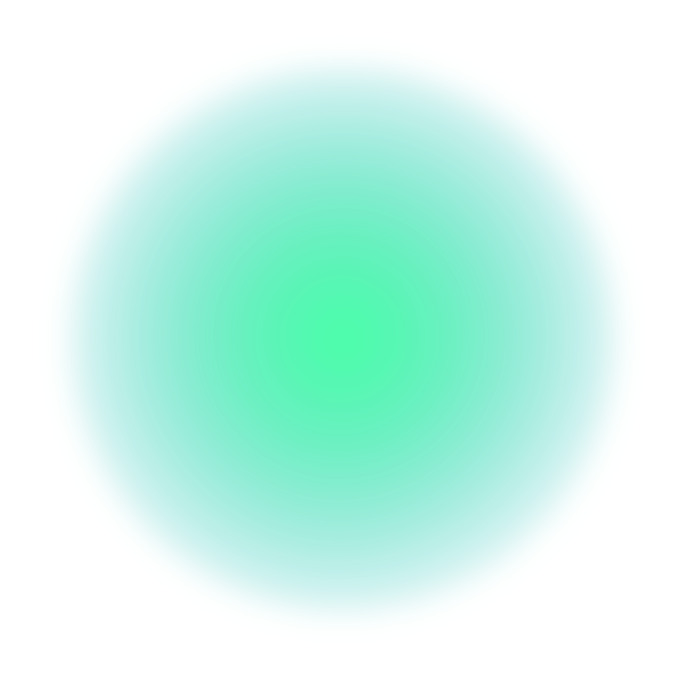
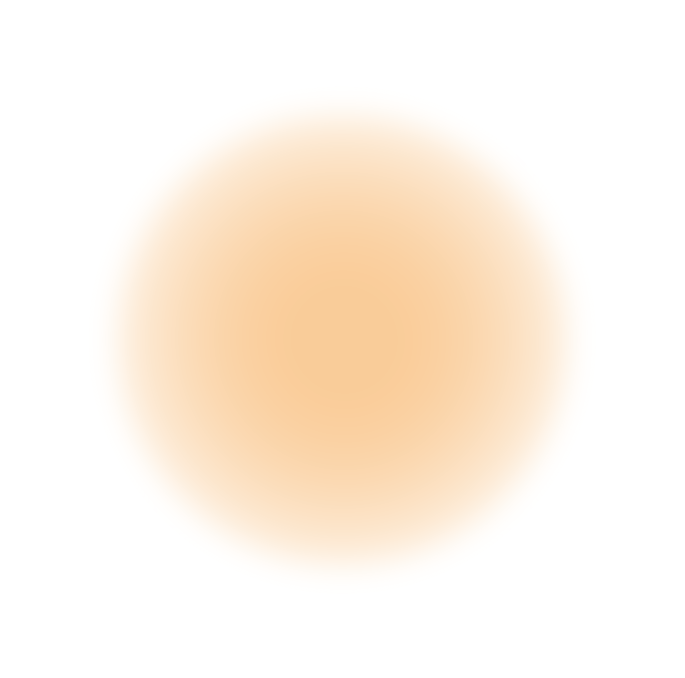
change about page

diff --git a/index.html b/index.html
@@ -1,152 +1,188 @@
 <!DOCTYPE html>
 <html lang="en">
+  <head>
+    <meta charset="UTF-8" />
+    <meta name="viewport" content="width=device-width, initial-scale=1.0" />
+    <title>Tracing Ties</title>
+    <link
+      href="https://fonts.googleapis.com/css2?family=Work+Sans:wght@300;400&display=swap"
+      rel="stylesheet"
+    />
+    <link rel="stylesheet" href="dist/main.css" />
+  </head>
 
-<head>
-  <meta charset="UTF-8" />
-  <meta name="viewport" content="width=device-width, initial-scale=1.0" />
-  <title>Tracing Ties</title>
-  <link href="https://fonts.googleapis.com/css2?family=Work+Sans:wght@300;400&display=swap" rel="stylesheet" />
-  <link rel="stylesheet" href="dist/main.css" />
-</head>
-
-<body>
-  <svg style="width: 0; height: 0; position: absolute;" aria-hidden="true" focusable="false" version="1.1"
-    xmlns="http://www.w3.org/2000/svg">
-    <filter id="blur">
-      <feGaussianBlur stdDeviation="3" />
-    </filter>
-  </svg>
-  <svg style="width: 0; height: 0; position: absolute;" aria-hidden="true" focusable="false">
-    <linearGradient id="my-uncool-gradient" x2="1" y2="1">
-      <stop offset="0%" stop-color="#000000" />
-      <stop offset="100%" stop-color="#000000" />
-    </linearGradient>
-    <linearGradient id="my-cool-gradient" x2="1" y2="1">
-      <stop offset="0%" stop-color="#00FF85" />
-      <stop offset="100%" stop-color="#2DBFBF" />
-    </linearGradient>
-  </svg>
-  <div class="scale-container">
-    Scale:
-    <p id="scale">20%</p>
-  </div>
-  <div class="pan-container">
-    <div id="floating-elements"></div>
-    <div id="active-element"></div>
-  </div>
-  <div class="filters">
-    <button class="filter" id="octagram">
-      <svg xmlns="http://www.w3.org/2000/svg" viewBox="0 0 71 69">
-        <g id="Layer_2" data-name="Layer 2">
-          <g id="Layer_1-2" data-name="Layer 1">
-            <polygon points="18 0 18 17 32 31 33 31 33 8 27 0 18 0" />
-            <polygon points="53 17 53 0 44 0 38 8 38 31 39 31 53 17" />
-            <polygon points="18 52 18 69 27 69 33 61 33 38 32 38 18 52" />
-            <polygon points="38 38 38 61 44 69 53 69 53 52 39 38 38 38" />
-            <polygon points="6 32 0.06 22.11 0 20 13 20 24.97 31.46 25 32 6 32" />
-            <polygon points="65 32 70.94 22.11 71 20 58 20 46.03 31.46 46 32 65 32" />
-            <polygon points="6 37 0.06 46.89 0 49 13 49 24.97 37.54 25 37 6 37" />
-            <polygon points="65 37 70.94 46.89 71 49 58 49 46.03 37.54 46 37 65 37" />
-          </g>
-        </g>
-      </svg>
-    </button>
-    <button class="filter" id="doublecross">
-      <svg xmlns="http://www.w3.org/2000/svg" viewBox="0 0 72 72">
-        <g id="Layer_2" data-name="Layer 2">
-          <g id="Layer_1-2" data-name="Layer 1">
-            <polygon
-              points="62.58 33 65.88 30.34 62.12 25.66 53.02 33 43.24 33 63.58 12.66 59.34 8.42 39 28.76 39 18.98 46.34 9.88 41.66 6.12 39 9.42 39 0 33 0 33 9.42 30.34 6.12 25.66 9.88 33 18.98 33 28.76 12.66 8.42 8.42 12.66 28.76 33 18.05 33 8.87 25.66 5.13 30.34 8.45 33 0 33 0 39 8.45 39 5.13 41.66 8.87 46.34 18.05 39 28.76 39 8.42 59.34 12.66 63.58 33 43.24 33 53.95 25.66 63.13 30.34 66.87 33 63.55 33 72 39 72 39 63.55 41.66 66.87 46.34 63.13 39 53.95 39 43.24 59.34 63.58 63.58 59.34 43.24 39 53.02 39 62.12 46.34 65.88 41.66 62.58 39 72 39 72 33 62.58 33" />
-          </g>
-        </g>
-      </svg>
-    </button>
-    <button class="filter" id="rhomb">
-      <svg xmlns="http://www.w3.org/2000/svg" viewBox="0 0 72.63 72.24">
-        <g id="Layer_2" data-name="Layer 2">
-          <g id="Layer_1-2" data-name="Layer 1">
-            <polygon points="25.24 35.64 35.41 45.98 46.08 35.91 36.13 25.36 25.24 35.64" />
-            <path
-              d="M72.63,28.07l-4.14-4.33-8.86,8.45-7.41-7.4,9.14-8.44-4.07-4.41L48,20.54l-7.11-7.11,9.3-8.88L46,.21l-9.4,9L27.44,0,23.19,4.24l9.09,9.09-7.42,7.09L15.94,11.5l-4.25,4.24,8.83,8.83L13.1,31.66,4.44,23,.19,27.24,8.76,35.8,0,44.17l4.14,4.34L13,40.05l7.42,7.42-9.15,8.42,4.07,4.42,9.33-8.59,7.09,7.09-9.29,8.88L26.61,72l9.4-9,9.18,9.19L49.44,68l-9.09-9.09,7.42-7.09,8.92,8.92,4.25-4.24-8.83-8.83,7.42-7.09,8.66,8.66L72.44,45l-8.57-8.56ZM35.27,54.44,16.82,35.7,36.27,16.78l18.4,19.27Z" />
-          </g>
-        </g>
-      </svg>
-    </button>
-  </div>
-  <button data-name="about">About</button>
-  <div id="about">
-    <h1>Tracing Ties</h1>
-    <p>
-      This project is a three-part collection of crafted objects that have the
-      same type of ornament in common. These are three of the more
-      widespread symbols in Estonian traditional handicraft.
-    </p>
-    <p class="small">
-      These are often called “national symbols” and used as decorations for
-      souvenirs and on package design for local produce.
-    </p>
-    <div class="symbols">
-      <div class="large-filters">
-        <button id="large-octagram" class="large-filter">
-          <svg xmlns="http://www.w3.org/2000/svg" viewBox="0 0 71 69">
-            <g id="Layer_2" data-name="Layer 2">
-              <g id="Layer_1-2" data-name="Layer 1">
-                <polygon points="18 0 18 17 32 31 33 31 33 8 27 0 18 0" />
-                <polygon points="53 17 53 0 44 0 38 8 38 31 39 31 53 17" />
-                <polygon points="18 52 18 69 27 69 33 61 33 38 32 38 18 52" />
-                <polygon points="38 38 38 61 44 69 53 69 53 52 39 38 38 38" />
-                <polygon points="6 32 0.06 22.11 0 20 13 20 24.97 31.46 25 32 6 32" />
-                <polygon points="65 32 70.94 22.11 71 20 58 20 46.03 31.46 46 32 65 32" />
-                <polygon points="6 37 0.06 46.89 0 49 13 49 24.97 37.54 25 37 6 37" />
-                <polygon points="65 37 70.94 46.89 71 49 58 49 46.03 37.54 46 37 65 37" />
-              </g>
-            </g>
-          </svg>
-        </button>
-        <button id="large-doublecross" class="large-filter">
-          <svg xmlns="http://www.w3.org/2000/svg" viewBox="0 0 72 72">
-            <g id="Layer_2" data-name="Layer 2">
-              <g id="Layer_1-2" data-name="Layer 1">
-                <polygon
-                  points="62.58 33 65.88 30.34 62.12 25.66 53.02 33 43.24 33 63.58 12.66 59.34 8.42 39 28.76 39 18.98 46.34 9.88 41.66 6.12 39 9.42 39 0 33 0 33 9.42 30.34 6.12 25.66 9.88 33 18.98 33 28.76 12.66 8.42 8.42 12.66 28.76 33 18.05 33 8.87 25.66 5.13 30.34 8.45 33 0 33 0 39 8.45 39 5.13 41.66 8.87 46.34 18.05 39 28.76 39 8.42 59.34 12.66 63.58 33 43.24 33 53.95 25.66 63.13 30.34 66.87 33 63.55 33 72 39 72 39 63.55 41.66 66.87 46.34 63.13 39 53.95 39 43.24 59.34 63.58 63.58 59.34 43.24 39 53.02 39 62.12 46.34 65.88 41.66 62.58 39 72 39 72 33 62.58 33" />
-              </g>
-            </g>
-          </svg>
-        </button>
-        <button id="large-rhomb" class="large-filter">
-          <svg xmlns="http://www.w3.org/2000/svg" viewBox="0 0 72.63 72.24">
-            <g id="Layer_2" data-name="Layer 2">
-              <g id="Layer_1-2" data-name="Layer 1">
-                <polygon points="25.24 35.64 35.41 45.98 46.08 35.91 36.13 25.36 25.24 35.64" />
-                <path
-                  d="M72.63,28.07l-4.14-4.33-8.86,8.45-7.41-7.4,9.14-8.44-4.07-4.41L48,20.54l-7.11-7.11,9.3-8.88L46,.21l-9.4,9L27.44,0,23.19,4.24l9.09,9.09-7.42,7.09L15.94,11.5l-4.25,4.24,8.83,8.83L13.1,31.66,4.44,23,.19,27.24,8.76,35.8,0,44.17l4.14,4.34L13,40.05l7.42,7.42-9.15,8.42,4.07,4.42,9.33-8.59,7.09,7.09-9.29,8.88L26.61,72l9.4-9,9.18,9.19L49.44,68l-9.09-9.09,7.42-7.09,8.92,8.92,4.25-4.24-8.83-8.83,7.42-7.09,8.66,8.66L72.44,45l-8.57-8.56ZM35.27,54.44,16.82,35.7,36.27,16.78l18.4,19.27Z" />
-              </g>
-            </g>
-          </svg>
-        </button>
-      </div>
+  <body>
+    <svg
+      style="width: 0; height: 0; position: absolute;"
+      aria-hidden="true"
+      focusable="false"
+      version="1.1"
+      xmlns="http://www.w3.org/2000/svg"
+    >
+      <filter id="blur">
+        <feGaussianBlur stdDeviation="3" />
+      </filter>
+    </svg>
+    <svg
+      style="width: 0; height: 0; position: absolute;"
+      aria-hidden="true"
+      focusable="false"
+    >
+      <linearGradient id="my-uncool-gradient" x2="1" y2="1">
+        <stop offset="0%" stop-color="#000000" />
+        <stop offset="100%" stop-color="#000000" />
+      </linearGradient>
+      <linearGradient id="my-cool-gradient" x2="1" y2="1">
+        <stop offset="0%" stop-color="#00FF85" />
+        <stop offset="100%" stop-color="#2DBFBF" />
+      </linearGradient>
+    </svg>
+    <div class="scale-container">
+      Scale:
+      <p id="scale">20%</p>
     </div>
-    <p>
-      This collection highlights the fact that these are largely universal
-      ornaments found on traditional handicraft around the world. Instead of
-      setting cultures apart, these symbols connect different people from different times through a universal visual
-      language.
-    </p>
-    <p>
-      These ties cannot be proven and might as well be accidental. Nevertheless, this project takes the
-      liberty to let go of facts for a moment and let the viewer speculate on the meaning of these similarities.
-    </p>
-    <p class="small">
-      Author: Anneli Kripsaar
-      <br />
-      Supervisor: Sean Yendrys
-      <br />
-      Thank you: Estonian National Museum
-    </p>
-  </div>
-  <div id="info"></div>
-  <div id="long-info"></div>
-</body>
-<script src="dist/main.js"></script>
-
+    <div class="pan-container">
+      <div id="floating-elements"></div>
+      <div id="active-element"></div>
+    </div>
+    <div class="filters">
+      <button class="filter" id="octagram">
+        <svg xmlns="http://www.w3.org/2000/svg" viewBox="0 0 71 69">
+          <g id="Layer_2" data-name="Layer 2">
+            <g id="Layer_1-2" data-name="Layer 1">
+              <polygon points="18 0 18 17 32 31 33 31 33 8 27 0 18 0" />
+              <polygon points="53 17 53 0 44 0 38 8 38 31 39 31 53 17" />
+              <polygon points="18 52 18 69 27 69 33 61 33 38 32 38 18 52" />
+              <polygon points="38 38 38 61 44 69 53 69 53 52 39 38 38 38" />
+              <polygon
+                points="6 32 0.06 22.11 0 20 13 20 24.97 31.46 25 32 6 32"
+              />
+              <polygon
+                points="65 32 70.94 22.11 71 20 58 20 46.03 31.46 46 32 65 32"
+              />
+              <polygon
+                points="6 37 0.06 46.89 0 49 13 49 24.97 37.54 25 37 6 37"
+              />
+              <polygon
+                points="65 37 70.94 46.89 71 49 58 49 46.03 37.54 46 37 65 37"
+              />
+            </g>
+          </g>
+        </svg>
+      </button>
+      <button class="filter" id="doublecross">
+        <svg xmlns="http://www.w3.org/2000/svg" viewBox="0 0 72 72">
+          <g id="Layer_2" data-name="Layer 2">
+            <g id="Layer_1-2" data-name="Layer 1">
+              <polygon
+                points="62.58 33 65.88 30.34 62.12 25.66 53.02 33 43.24 33 63.58 12.66 59.34 8.42 39 28.76 39 18.98 46.34 9.88 41.66 6.12 39 9.42 39 0 33 0 33 9.42 30.34 6.12 25.66 9.88 33 18.98 33 28.76 12.66 8.42 8.42 12.66 28.76 33 18.05 33 8.87 25.66 5.13 30.34 8.45 33 0 33 0 39 8.45 39 5.13 41.66 8.87 46.34 18.05 39 28.76 39 8.42 59.34 12.66 63.58 33 43.24 33 53.95 25.66 63.13 30.34 66.87 33 63.55 33 72 39 72 39 63.55 41.66 66.87 46.34 63.13 39 53.95 39 43.24 59.34 63.58 63.58 59.34 43.24 39 53.02 39 62.12 46.34 65.88 41.66 62.58 39 72 39 72 33 62.58 33"
+              />
+            </g>
+          </g>
+        </svg>
+      </button>
+      <button class="filter" id="rhomb">
+        <svg xmlns="http://www.w3.org/2000/svg" viewBox="0 0 72.63 72.24">
+          <g id="Layer_2" data-name="Layer 2">
+            <g id="Layer_1-2" data-name="Layer 1">
+              <polygon
+                points="25.24 35.64 35.41 45.98 46.08 35.91 36.13 25.36 25.24 35.64"
+              />
+              <path
+                d="M72.63,28.07l-4.14-4.33-8.86,8.45-7.41-7.4,9.14-8.44-4.07-4.41L48,20.54l-7.11-7.11,9.3-8.88L46,.21l-9.4,9L27.44,0,23.19,4.24l9.09,9.09-7.42,7.09L15.94,11.5l-4.25,4.24,8.83,8.83L13.1,31.66,4.44,23,.19,27.24,8.76,35.8,0,44.17l4.14,4.34L13,40.05l7.42,7.42-9.15,8.42,4.07,4.42,9.33-8.59,7.09,7.09-9.29,8.88L26.61,72l9.4-9,9.18,9.19L49.44,68l-9.09-9.09,7.42-7.09,8.92,8.92,4.25-4.24-8.83-8.83,7.42-7.09,8.66,8.66L72.44,45l-8.57-8.56ZM35.27,54.44,16.82,35.7,36.27,16.78l18.4,19.27Z"
+              />
+            </g>
+          </g>
+        </svg>
+      </button>
+    </div>
+    <button data-name="about">About</button>
+    <div id="about">
+      <h1>Tracing Ties</h1>
+      <p>
+        This project is a three-part collection of crafted objects that have the
+        same type of ornament in common. These are three of the more widespread
+        symbols in Estonian traditional handicraft.
+      </p>
+      <p class="small">
+        These are often called “national symbols” and used as decorations for
+        souvenirs and on package design for local produce.
+      </p>
+      <div class="symbols">
+        <div class="large-filters">
+          <button id="large-octagram" class="large-filter">
+            <svg xmlns="http://www.w3.org/2000/svg" viewBox="0 0 71 69">
+              <g id="Layer_2" data-name="Layer 2">
+                <g id="Layer_1-2" data-name="Layer 1">
+                  <polygon points="18 0 18 17 32 31 33 31 33 8 27 0 18 0" />
+                  <polygon points="53 17 53 0 44 0 38 8 38 31 39 31 53 17" />
+                  <polygon points="18 52 18 69 27 69 33 61 33 38 32 38 18 52" />
+                  <polygon points="38 38 38 61 44 69 53 69 53 52 39 38 38 38" />
+                  <polygon
+                    points="6 32 0.06 22.11 0 20 13 20 24.97 31.46 25 32 6 32"
+                  />
+                  <polygon
+                    points="65 32 70.94 22.11 71 20 58 20 46.03 31.46 46 32 65 32"
+                  />
+                  <polygon
+                    points="6 37 0.06 46.89 0 49 13 49 24.97 37.54 25 37 6 37"
+                  />
+                  <polygon
+                    points="65 37 70.94 46.89 71 49 58 49 46.03 37.54 46 37 65 37"
+                  />
+                </g>
+              </g>
+            </svg>
+          </button>
+          <button id="large-doublecross" class="large-filter">
+            <svg xmlns="http://www.w3.org/2000/svg" viewBox="0 0 72 72">
+              <g id="Layer_2" data-name="Layer 2">
+                <g id="Layer_1-2" data-name="Layer 1">
+                  <polygon
+                    points="62.58 33 65.88 30.34 62.12 25.66 53.02 33 43.24 33 63.58 12.66 59.34 8.42 39 28.76 39 18.98 46.34 9.88 41.66 6.12 39 9.42 39 0 33 0 33 9.42 30.34 6.12 25.66 9.88 33 18.98 33 28.76 12.66 8.42 8.42 12.66 28.76 33 18.05 33 8.87 25.66 5.13 30.34 8.45 33 0 33 0 39 8.45 39 5.13 41.66 8.87 46.34 18.05 39 28.76 39 8.42 59.34 12.66 63.58 33 43.24 33 53.95 25.66 63.13 30.34 66.87 33 63.55 33 72 39 72 39 63.55 41.66 66.87 46.34 63.13 39 53.95 39 43.24 59.34 63.58 63.58 59.34 43.24 39 53.02 39 62.12 46.34 65.88 41.66 62.58 39 72 39 72 33 62.58 33"
+                  />
+                </g>
+              </g>
+            </svg>
+          </button>
+          <button id="large-rhomb" class="large-filter">
+            <svg xmlns="http://www.w3.org/2000/svg" viewBox="0 0 72.63 72.24">
+              <g id="Layer_2" data-name="Layer 2">
+                <g id="Layer_1-2" data-name="Layer 1">
+                  <polygon
+                    points="25.24 35.64 35.41 45.98 46.08 35.91 36.13 25.36 25.24 35.64"
+                  />
+                  <path
+                    d="M72.63,28.07l-4.14-4.33-8.86,8.45-7.41-7.4,9.14-8.44-4.07-4.41L48,20.54l-7.11-7.11,9.3-8.88L46,.21l-9.4,9L27.44,0,23.19,4.24l9.09,9.09-7.42,7.09L15.94,11.5l-4.25,4.24,8.83,8.83L13.1,31.66,4.44,23,.19,27.24,8.76,35.8,0,44.17l4.14,4.34L13,40.05l7.42,7.42-9.15,8.42,4.07,4.42,9.33-8.59,7.09,7.09-9.29,8.88L26.61,72l9.4-9,9.18,9.19L49.44,68l-9.09-9.09,7.42-7.09,8.92,8.92,4.25-4.24-8.83-8.83,7.42-7.09,8.66,8.66L72.44,45l-8.57-8.56ZM35.27,54.44,16.82,35.7,36.27,16.78l18.4,19.27Z"
+                  />
+                </g>
+              </g>
+            </svg>
+          </button>
+        </div>
+      </div>
+      <p>
+        This collection highlights the fact that these are largely universal
+        ornaments found on traditional handicraft around the world. Instead of
+        setting cultures apart, these symbols connect different people from
+        different times through a universal visual language.
+      </p>
+      <p>
+        These ties cannot be proven and might as well be accidental.
+        Nevertheless, this project takes the liberty to let go of facts for a
+        moment and let the viewer speculate on the meaning of these
+        similarities.
+      </p>
+      <p class="small">
+        Author: Anneli Kripsaar
+        <br />
+        Supervisor: Sean Yendrys
+        <br />
+        Thank you: Estonian National Museum
+      </p>
+    </div>
+    <div id="info"></div>
+    <div id="long-info"></div>
+  </body>
+  <script src="dist/main.js"></script>
 </html>

diff --git a/src/style.css b/src/style.css
@@ -135,7 +135,6 @@ button {
 }
 
 h1 {
-  font-weight: inherit;
   font-size: 8em;
 }
 
@@ -318,8 +317,6 @@ h1 {
   animation-iteration-count: infinite;
   animation-timing-function: ease-in-out;
   animation-fill-mode: backwards;
-  mix-blend-mode: color;
-  opacity: 0.7;
 }
 
 .footnote {
